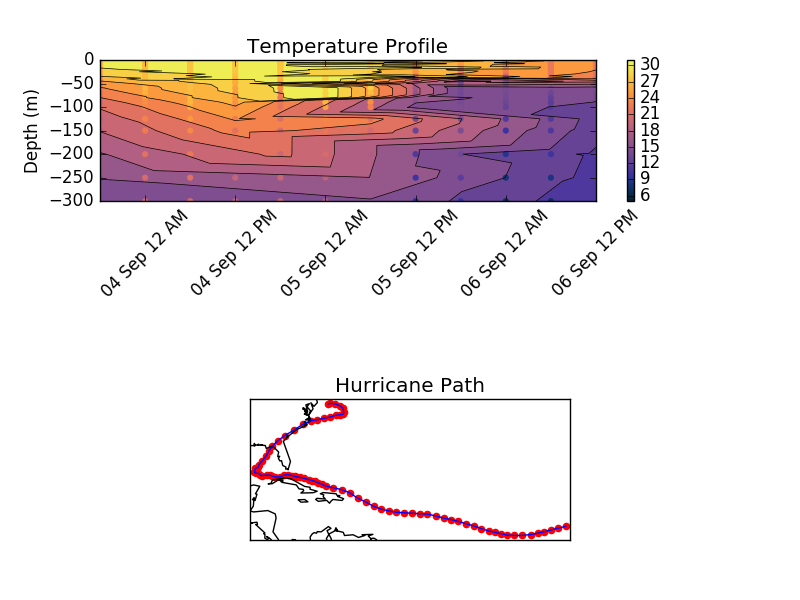
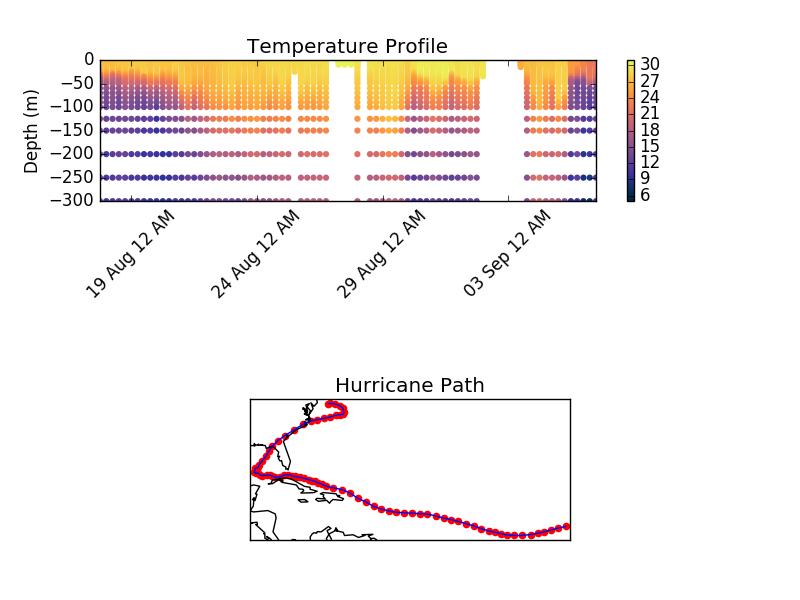
NaN in plot, only scatter

diff --git a/trackplot_hycom.py b/trackplot_hycom.py
@@ -230,7 +230,7 @@ data = netCDF4.Dataset(hycom_url)
 xyz = zip_variable3D(locations, data, variable, hycom_url)
 
 # clean up for numpy the Hycom formatting choices
-xyz = [point if isinstance(point[2],np.float32) else (point[0], point[1], -1) for point in xyz]
+xyz = [point if isinstance(point[2],np.float32) else (point[0], point[1], np.nan) for point in xyz]
 
 # This is just some reformatting for plotting... fingers crossed
 
@@ -258,15 +258,10 @@ hfmt = mdates.DateFormatter('%d %b %I %p')
 fig = plt.figure()
 
 ax = fig.add_subplot(311) #plt.subplots(1,2, sharex=True, sharey=True)
-ax.set_title("Temperature Profile")
-#plt.xlabel('Date')
- # x-axis label
-#plt.xaxis.set_major_locator(weeks)
-#plt.xaxis.set_major_formatter(monthsFmt)
-#plt.xaxis.set_minor_locator(days)
+ax.set_title("HYCOM Temperature Profile")
 plt.ylabel('Depth (m)') # y-axis label
-plt.tricontour(xx, y, z, 20, linewidths=0.5, colors='k')
-plt.tricontourf(xx,y,z, 20, cmap = cmocean.cm.thermal) 
+#plt.tricontour(xx, y, z, 20, linewidths=0.5, colors='k')
+#plt.tricontourf(xx,y,z, 20, cmap = cmocean.cm.thermal) 
 plt.scatter(xx,y, edgecolors='none', c=z, cmap = cmocean.cm.thermal)
 plt.axis([min(xx), max(xx), min(y), max(y)])
 plt.xticks(rotation=45)
